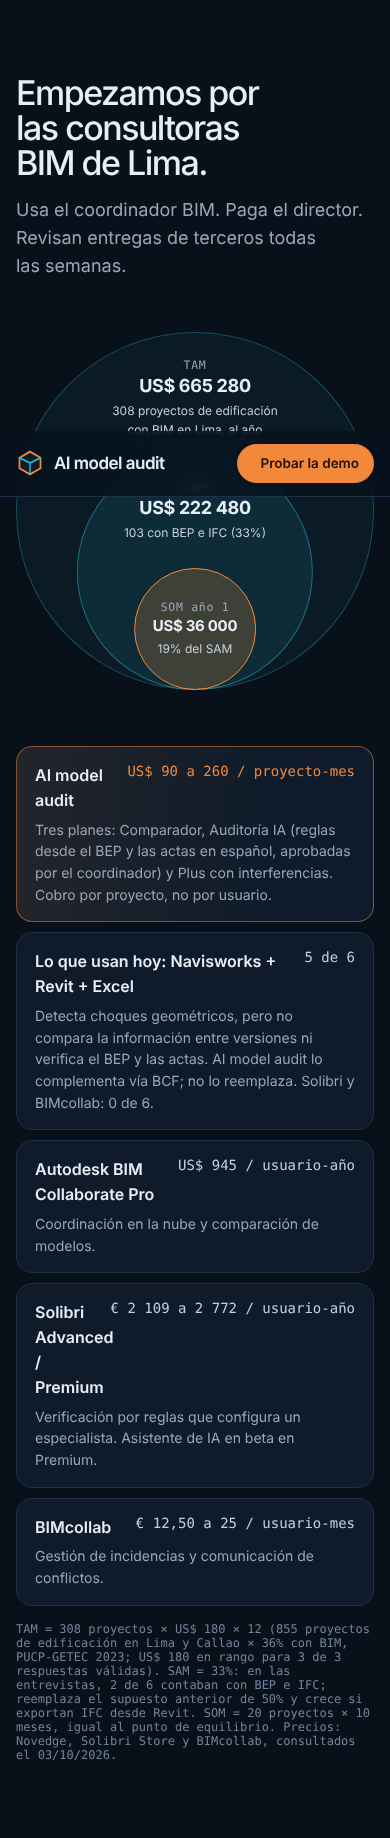
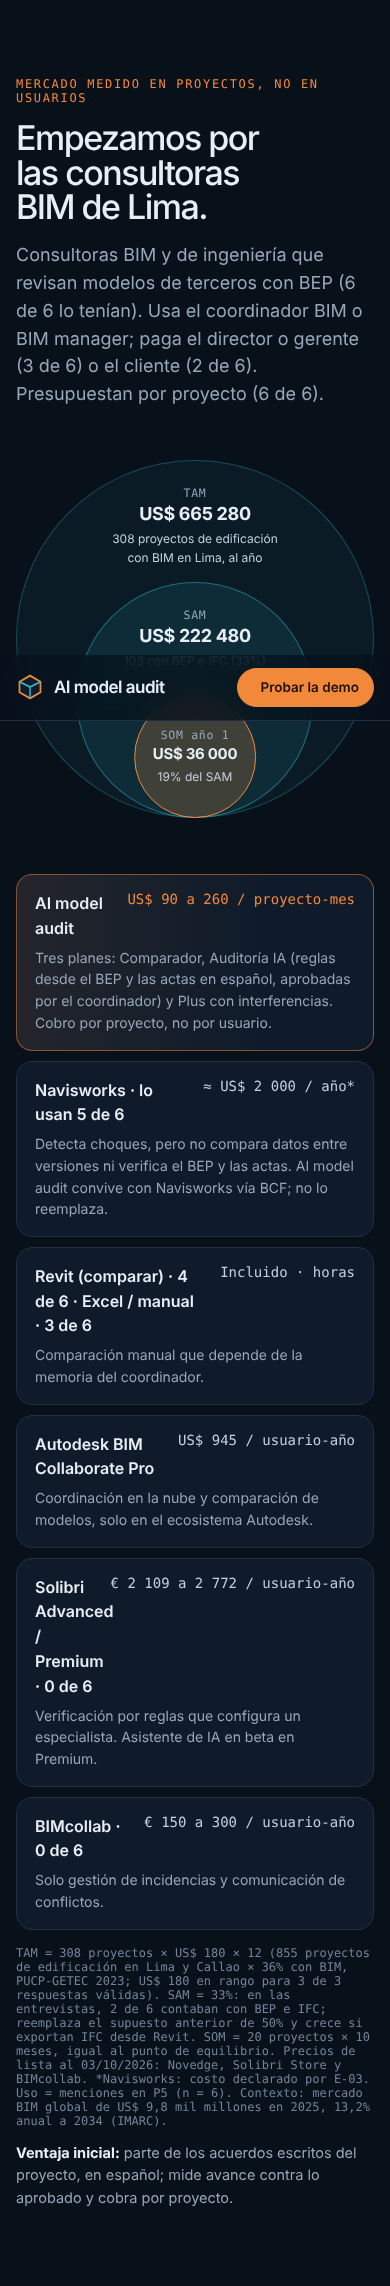
Alinea la página con el deck del Hito 2
- Hero con las tres pruebas (6/6, 36/36, 3 pilotos)
- IA: «La IA propone. Usted aprueba. El motor decide.», modelo y costo, fallos
- Mercado: segmento, usuario y pagador; competencia con uso en P5
- Planes: precio validado (P8), economía unitaria y canal
- Plan de desarrollo por fases con criterio de salida y tabla de hipótesis
- Piloto: 2 pilotos pagados de 1 proyecto, condiciones del deck
- Pie: roles del equipo y uso de IA

Claude-Session: https://claude.ai/code/session_01Kv3kMGk8fFWNeJ8VW4XCf7

Changed region(s): [[0.0308, 0.031, 0.9538, 0.9614], [0.0308, 0.2481, 0.1231, 0.3101]]

diff --git a/docs/interferencias/index.html b/docs/interferencias/index.html
@@ -328,6 +328,22 @@ input[type=range]::-moz-range-thumb{width:16px;height:16px;border-radius:50%;bac
 @media (max-width:560px){.ev-stats{grid-template-columns:1fr}.ev-stats>div{border-left:0!important;border-top:1px solid var(--line)!important}.ev-stats>div:first-child{border-top:0!important}.ev-q p{font-size:19px}}
 
 .hyp .chip{white-space:normal}
+/* ---------- deck Hito 2 ---------- */
+.hero-proof{display:flex;flex-wrap:wrap;gap:10px 26px;margin-top:26px}
+.hero-proof div{display:flex;flex-direction:column;gap:2px;max-width:17ch}
+.hero-proof b{font-size:26px;font-weight:600;letter-spacing:-.03em;line-height:1}
+.hero-proof span{font-size:13px;color:var(--fg2);line-height:1.35}
+.econ{display:grid;grid-template-columns:repeat(3,minmax(0,1fr));gap:20px;margin-top:20px}
+.vw{display:grid;grid-template-columns:repeat(2,minmax(0,1fr));gap:8px}
+.vw div{border-radius:12px;background:var(--bg2);border:1px solid var(--line);padding:10px 12px}
+.vw small{display:block;font-size:12px;color:var(--muted);line-height:1.3}
+.vw b{display:block;font:600 18px var(--mono);margin-top:4px}
+.vw .ok{border-color:rgba(56,196,142,.45)}
+.hyp-tbl td.st{white-space:nowrap}
+@media (max-width:980px){.econ{grid-template-columns:1fr}}
+.tblwrap{overflow-x:auto;max-width:100%}
+@media (max-width:560px){.vw{grid-template-columns:1fr 1fr}.hyp-tbl .hm{display:none}.hyp-tbl td.id,.hyp-tbl .chip,.hyp-tbl td.st{white-space:normal}.hyp-tbl td,.hyp-tbl th{font-size:13px}}
+
 /* ---------- CASO REAL (Prueba A) ---------- */
 .cr-tbl{width:100%;border-collapse:collapse;font-size:14px}
 .cr-tbl th{font:500 11px var(--mono);letter-spacing:.08em;text-transform:uppercase;color:var(--dim);text-align:left;padding:0 10px 8px 0;border-bottom:1px solid var(--line)}
@@ -759,6 +775,11 @@ tr:last-child td{border-bottom:0}
         <a class="btn pri" href="#app" data-demo><i class="ph ph-play"></i>Probar la demo</a>
         <a class="btn ghost" href="#piloto">Solicitar piloto</a>
       </div>
+      <div class="hero-proof rv" style="--i:4">
+        <div><b>6/6</b><span>empresas con retrabajo en los últimos 3 meses</span></div>
+        <div><b>36/36</b><span>tareas logradas sin ayuda en la demo</span></div>
+        <div><b>3</b><span>pilotos aceptados y 3 casos reales ofrecidos</span></div>
+      </div>
     </div>
   </div>
   <div class="container hero-bar">
@@ -935,7 +956,7 @@ R-07. Los muros que delimitan escaleras de evacuación deberán indicar su <mark
   <div class="container">
     <div class="head rv">
       <div class="eyebrow">Integración de IA</div>
-      <h2 class="h2">La IA lee los acuerdos. <span class="serif">El motor decide el cumplimiento.</span></h2>
+      <h2 class="h2">La IA propone. Usted aprueba. <span class="serif">El motor decide.</span></h2>
       <p class="lead">Comparar modelos ya existe. Lo nuevo es convertir el BEP y las actas en español en reglas verificables, con un humano aprobando cada una.</p>
     </div>
     <div class="ia-grid">
@@ -950,9 +971,11 @@ R-07. Los muros que delimitan escaleras de evacuación deberán indicar su <mark
       </div>
       <div class="ia-list rv" style="--i:1">
         <div class="ia-item"><i class="ph ph-brain"></i><div><b>Capacidad</b><p>Comprensión de lenguaje natural: extrae requisitos verificables de documentos en español y los mapea al vocabulario del modelo.</p></div></div>
-        <div class="ia-item"><i class="ph ph-tray-arrow-down"></i><div><b>Entradas</b><p>Texto del BEP y actas, más la lista de clases y propiedades que existen en los IFC cargados. Nunca la geometría completa.</p></div></div>
+        <div class="ia-item"><i class="ph ph-tray-arrow-down"></i><div><b>Entradas</b><p>Texto de los acuerdos (hasta 60 000 caracteres) y los nombres de clases y propiedades del IFC. Nunca la geometría: el modelo no sale del navegador.</p></div></div>
+        <div class="ia-item"><i class="ph ph-cpu"></i><div><b>Modelo y costo</b><p>Gemini 3.5 Flash-Lite, a unos US$ 0,01 por propuesta, con salida JSON de esquema cerrado. Corre en un servicio propio con clave secreta y límite de solicitudes; el modelo se cambia por configuración.</p></div></div>
         <div class="ia-item"><i class="ph ph-brackets-curly"></i><div><b>Resultado</b><p>Reglas en JSON con cita literal, clase, propiedades, valores permitidos y ambigüedades detectadas.</p></div></div>
-        <div class="ia-item"><i class="ph ph-user-check"></i><div><b>Revisión humana</b><p>Ninguna regla se verifica sin aprobación. Se mide cuántas salen útiles sin tocar (meta H6: 80% o más).</p></div></div>
+        <div class="ia-item"><i class="ph ph-user-check"></i><div><b>Revisión humana</b><p>Ninguna regla se verifica sin aprobación. La clase sale de una lista cerrada y la propiedad se valida en el IFC; lo ambiguo se devuelve o queda «No evaluable». En la prueba, 6 de 6 resolvieron la regla de la IA (5 la aprobaron, 1 la corrigió). Meta H6: 80% útiles.</p></div></div>
+        <div class="ia-item"><i class="ph ph-lifebuoy"></i><div><b>Si la IA falla</b><p>Sin respuesta, límite o JSON inválido: se avisa en pantalla y propone un asistente local por palabras clave. Nada se verifica sin aprobación.</p></div></div>
         <div class="ia-item limit"><i class="ph ph-warning"></i><div><b>Limitaciones</b><p>En un benchmark de 2026, el mejor modelo llegó a 65,6% F1 al generar reglas IDS. Por eso la IA propone y el humano decide. <span class="src">Ishigaki-IDS-Bench, arXiv:2605.22079</span></p></div></div>
       </div>
     </div>
@@ -1070,7 +1093,7 @@ R-07. Los muros que delimitan escaleras de evacuación deberán indicar su <mark
 
 <section class="block" id="mercado">
   <div class="container">
-    <div class="head rv"><h2 class="h2">Empezamos por las consultoras BIM de Lima.</h2><p class="lead">Usa el coordinador BIM. Paga el director. Revisan entregas de terceros todas las semanas.</p></div>
+    <div class="head rv"><div class="eyebrow">Mercado medido en proyectos, no en usuarios</div><h2 class="h2">Empezamos por las consultoras BIM de Lima.</h2><p class="lead">Consultoras BIM y de ingeniería que revisan modelos de terceros con BEP (6 de 6 lo tenían). Usa el coordinador BIM o BIM manager; paga el director o gerente (3 de 6) o el cliente (2 de 6). Presupuestan por proyecto (6 de 6).</p></div>
     <div class="mkt">
       <div class="rings rv" aria-label="TAM, SAM y SOM">
         <div class="ring r1"><span>TAM</span><b>US$ 665 280</b><small>308 proyectos de edificación con BIM en Lima, al año</small></div>
@@ -1079,11 +1102,13 @@ R-07. Los muros que delimitan escaleras de evacuación deberán indicar su <mark
       </div>
       <div class="alts rv" style="--i:1">
         <div class="alt us"><b>AI model audit</b><span class="price">US$ 90 a 260 / proyecto-mes</span><p>Tres planes: Comparador, Auditoría IA (reglas desde el BEP y las actas en español, aprobadas por el coordinador) y Plus con interferencias. Cobro por proyecto, no por usuario.</p></div>
-        <div class="alt"><b>Lo que usan hoy: Navisworks + Revit + Excel</b><span class="price">5 de 6</span><p>Detecta choques geométricos, pero no compara la información entre versiones ni verifica el BEP y las actas. AI model audit lo complementa vía BCF; no lo reemplaza. Solibri y BIMcollab: 0 de 6.</p></div>
-        <div class="alt"><b>Autodesk BIM Collaborate Pro</b><span class="price">US$ 945 / usuario-año</span><p>Coordinación en la nube y comparación de modelos.</p></div>
-        <div class="alt"><b>Solibri Advanced / Premium</b><span class="price">€ 2 109 a 2 772 / usuario-año</span><p>Verificación por reglas que configura un especialista. Asistente de IA en beta en Premium.</p></div>
-        <div class="alt"><b>BIMcollab</b><span class="price">€ 12,50 a 25 / usuario-mes</span><p>Gestión de incidencias y comunicación de conflictos.</p></div>
-        <p class="src" style="margin-top:6px">TAM = 308 proyectos × US$ 180 × 12 (855 proyectos de edificación en Lima y Callao × 36% con BIM, PUCP-GETEC 2023; US$ 180 en rango para 3 de 3 respuestas válidas). SAM = 33%: en las entrevistas, 2 de 6 contaban con BEP e IFC; reemplaza el supuesto anterior de 50% y crece si exportan IFC desde Revit. SOM = 20 proyectos × 10 meses, igual al punto de equilibrio. Precios: Novedge, Solibri Store y BIMcollab, consultados el 03/10/2026.</p>
+        <div class="alt"><b>Navisworks · lo usan 5 de 6</b><span class="price">≈ US$ 2 000 / año*</span><p>Detecta choques, pero no compara datos entre versiones ni verifica el BEP y las actas. AI model audit convive con Navisworks vía BCF; no lo reemplaza.</p></div>
+        <div class="alt"><b>Revit (comparar) · 4 de 6 · Excel / manual · 3 de 6</b><span class="price">Incluido · horas</span><p>Comparación manual que depende de la memoria del coordinador.</p></div>
+        <div class="alt"><b>Autodesk BIM Collaborate Pro</b><span class="price">US$ 945 / usuario-año</span><p>Coordinación en la nube y comparación de modelos, solo en el ecosistema Autodesk.</p></div>
+        <div class="alt"><b>Solibri Advanced / Premium · 0 de 6</b><span class="price">€ 2 109 a 2 772 / usuario-año</span><p>Verificación por reglas que configura un especialista. Asistente de IA en beta en Premium.</p></div>
+        <div class="alt"><b>BIMcollab · 0 de 6</b><span class="price">€ 150 a 300 / usuario-año</span><p>Solo gestión de incidencias y comunicación de conflictos.</p></div>
+        <p class="src" style="margin-top:6px">TAM = 308 proyectos × US$ 180 × 12 (855 proyectos de edificación en Lima y Callao × 36% con BIM, PUCP-GETEC 2023; US$ 180 en rango para 3 de 3 respuestas válidas). SAM = 33%: en las entrevistas, 2 de 6 contaban con BEP e IFC; reemplaza el supuesto anterior de 50% y crece si exportan IFC desde Revit. SOM = 20 proyectos × 10 meses, igual al punto de equilibrio. Precios de lista al 03/10/2026: Novedge, Solibri Store y BIMcollab. *Navisworks: costo declarado por E-03. Uso = menciones en P5 (n = 6). Contexto: mercado BIM global de US$ 9,8 mil millones en 2025, 13,2% anual a 2034 (IMARC).</p>
+        <p class="muted" style="font-size:14.5px;margin-top:4px"><b style="color:var(--fg)">Ventaja inicial:</b> parte de los acuerdos escritos del proyecto, en español; mide avance contra lo aprobado y cobra por proyecto.</p>
       </div>
     </div>
   </div>
@@ -1131,8 +1156,25 @@ R-07. Los muros que delimitan escaleras de evacuación deberán indicar su <mark
         <div style="display:flex;gap:8px;flex-wrap:wrap;margin-top:auto"><a class="btn ia" href="#app" data-cl="ejemplo"><i class="ph ph-intersect"></i>Ver interferencias</a><a class="btn ia" href="#app" data-ids="ejemplo"><i class="ph ph-list-checks"></i>Ver validación IDS</a></div>
       </div>
     </div>
-    <p class="src plansrc">Precios en validación (H4). En las entrevistas, las 3 respuestas válidas ubicaron US$ 180 entre «barato» (mediana US$ 120) y «caro» (mediana US$ 250).</p>
-    <div class="price-grid one">
+    <p class="src plansrc">US$ 180 confirmado en rango con 3 respuestas válidas (H4, n = 3); se confirma con pilotos pagados.</p>
+    <div class="econ">
+      <div class="ev-card rv">
+        <h3>Precio validado (P8)</h3>
+        <div class="vw"><div><small>Tan barato que dudaría</small><b>US$ 30</b></div><div class="ok"><small>Barato, buena compra</small><b>US$ 120</b></div><div class="ok"><small>Caro, pero lo pensaría</small><b>US$ 250</b></div><div><small>Demasiado caro</small><b>US$ 400</b></div></div>
+        <p class="muted" style="font-size:14px">Medianas de las 3 respuestas válidas: US$ 180 queda entre «barato» y «caro» en 3 de 3.</p>
+      </div>
+      <div class="ev-card rv" style="--i:1">
+        <h3>Economía unitaria (US$ 180)</h3>
+        <div class="ev-kv"><span>Infraestructura</span><b>US$ 15</b><span>Uso de IA</span><b>US$ 5</b><span>Soporte (2 h × US$ 20)</span><b>US$ 40</b><span style="color:var(--fg)">Contribución por proyecto-mes</span><b style="color:var(--green)">US$ 120</b><span>Equilibrio: US$ 2 400 ÷ 120</span><b>20 proyectos</b></div>
+        <p class="src">Costos fijos y por proyecto: supuestos del equipo (H5), a medir en los pilotos.</p>
+      </div>
+      <div class="ev-card rv" style="--i:2">
+        <h3>Canal y adquisición</h3>
+        <div class="ev-kv"><span>Entrevistas con demo</span><b>6</b><span>Entregan un caso real</span><b>3</b><span>Aceptan el piloto</span><b>3</b><span>Referidos</span><b>3</b><span style="color:var(--fg)">Meta</span><b style="color:var(--acc)">2 pilotos pagados</b></div>
+        <p class="src">Decisión de compra: de 3 días a 5 semanas. Aliado: AECODE.</p>
+      </div>
+    </div>
+    <div class="price-grid one" style="margin-top:20px">
       <div class="calc rv" style="--i:1" aria-labelledby="calcT">
         <div class="calchd"><div><h3 id="calcT">¿Se paga solo en su proyecto?</h3><p class="muted" style="font-size:14.5px;margin-top:6px">Elija un plan y mueva los supuestos. Las revisiones y las horas parten de la mediana de las 6 entrevistas. La reducción (meta H2) y el valor de US$ 25 por hora del coordinador son supuestos: no se preguntaron y se medirán en los pilotos.</p></div>
           <div class="pseg" role="radiogroup" aria-label="Plan"><label><input type="radio" name="cPlan" value="90">Comparador</label><label><input type="radio" name="cPlan" value="180" checked>Auditoría IA</label><label><input type="radio" name="cPlan" value="260">Plus</label></div></div>
@@ -1148,7 +1190,7 @@ R-07. Los muros que delimitan escaleras de evacuación deberán indicar su <mark
           <div><div class="l">Costo del plan</div><div class="v" id="rC">US$ 180</div></div>
         </div>
         <div class="verdict" id="verdict"></div>
-        <p class="src">La reducción de 30% es la meta de la hipótesis H2, no un resultado. Se mide en una revisión real con cronómetro por fase.</p>
+        <p class="src">Valor para el cliente: 22,5 h × 30% × US$ 25/h ≈ US$ 169 por revisión. La reducción de 30% es la meta de H2, no un resultado; se mide en una revisión real con cronómetro por fase.</p>
       </div>
     </div>
   </div>
@@ -1156,24 +1198,28 @@ R-07. Los muros que delimitan escaleras de evacuación deberán indicar su <mark
 
 <section class="block" id="validacion" style="padding-top:0">
   <div class="container">
-    <div class="head rv"><h2 class="h2">Así validamos antes de construir más.</h2><p class="lead">Cada experimento tiene una métrica y un criterio de decisión definidos antes de medir. Lo que no se ha medido figura como pendiente, con fecha.</p></div>
+    <div class="head rv"><h2 class="h2">Plan de desarrollo: <span class="serif">cada fase con criterio de salida.</span></h2><p class="lead">Cada experimento tiene una métrica y un criterio de decisión definidos antes de medir. Lo que no se ha medido figura como pendiente, con fecha.</p></div>
     <div class="tl rv">
-      <div class="st done"><div class="dot"><i class="ph ph-check"></i></div><div class="when">Set 2026</div><h3>Oportunidad</h3><p>Problema, segmento priorizado frente a otros 3 y mercado con fuentes.</p><div class="crit">Hito 1 entregado</div></div>
-      <div class="st done"><div class="dot"><i class="ph ph-check"></i></div><div class="when">02 a 11/10/2026</div><h3>Entrevistas, demo y caso real</h3><p>6 entrevistas válidas, prueba de la demo con los 6 (36 de 36 tareas) y auditoría de un caso real con el prototipo.</p><div class="crit">H1: confirmada (6 de 6)<br>H4: confirmada (n = 3)<br>Demo comprensible: confirmada<br>SAM 50%: rechazado → 33%</div></div>
-      <div class="st now"><div class="dot"><i class="ph ph-timer"></i></div><div class="when">Al 31/10/2026</div><h3>Revisión medida</h3><p>Casos de E-04, E-05 y E-06 más el caso real, revisados a mano y con el prototipo, con cronómetro por fase. Línea base: 22,5 h por auditoría.</p><div class="crit">H2: 30% menos tiempo<br>H3: 90% de precisión<br>H6: 80% de reglas IA útiles</div></div>
-      <div class="st"><div class="dot"><i class="ph ph-handshake"></i></div><div class="when">Nov a dic 2026</div><h3>Pilotos pagados</h3><p>3 entrevistados aceptaron el piloto y 2 lo condicionan a probarlo en un proyecto real.</p><div class="crit">2 pilotos a US$ 180: seguir<br>0: bajar precio o cambiar segmento</div></div>
-      <div class="st"><div class="dot"><i class="ph ph-rocket-launch"></i></div><div class="when">Ene 2027</div><h3>MVP</h3><p>Geometría completa, alcance aprobado y costo de operación medido.</p><div class="crit">90% en 3 casos y costo de US$ 60 o menos por proyecto-mes</div></div>
+      <div class="st done"><div class="dot"><i class="ph ph-check"></i></div><div class="when">Set 2026 · Hito 1</div><h3>Oportunidad</h3><p>Problema, segmento priorizado frente a otros 3 y mercado con fuentes.</p><div class="crit">Hito 1 entregado</div></div>
+      <div class="st done"><div class="dot"><i class="ph ph-check"></i></div><div class="when">Set a oct 2026 · Fase 0</div><h3>Demo y evidencia</h3><p>Demo navegable publicada, IFC reales de 66 MB, interferencias, BCF e IDS. 6 entrevistas y caso real auditado.</p><div class="crit">Salida: 6 pruebas de usuario (logrado)</div></div>
+      <div class="st now"><div class="dot"><i class="ph ph-timer"></i></div><div class="when">13 a 31/10/2026 · Fase 1</div><h3>Validar valor</h3><p>IA en vivo publicada, Prueba C con 3 casos (manual frente a asistida) y ajuste de la ficha por T5 (hecho).</p><div class="crit">Salida: H2 ≥30%, H3 ≥90%, H6 ≥80%</div></div>
+      <div class="st"><div class="dot"><i class="ph ph-handshake"></i></div><div class="when">Nov a dic 2026 · Fase 2</div><h3>Pilotos</h3><p>2 pilotos pagados, proyectos multiusuario y guía de exportación IFC desde Revit.</p><div class="crit">Salida: 2 pilotos; costo ≤ US$ 60 por proyecto-mes</div></div>
+      <div class="st"><div class="dot"><i class="ph ph-rocket-launch"></i></div><div class="when">Ene a mar 2027 · Fase 3</div><h3>MVP</h3><p>Cuentas y datos cifrados, exportación a Power BI y complemento para Revit.</p><div class="crit">Salida: ≥90% en 3 casos; 20 proyectos</div></div>
     </div>
-    <div class="hyp rv">
-      <span class="chip" style="color:var(--green)">H1 dolor recurrente · confirmada, 6 de 6</span>
-      <span class="chip" style="color:var(--amber)">H2 ahorro ≥30% · pendiente 31/10</span>
-      <span class="chip" style="color:var(--amber)">H3 calidad ≥90% · pendiente 31/10</span>
-      <span class="chip" style="color:var(--green)">H4 US$ 180 por proyecto-mes · confirmada, n = 3</span>
-      <span class="chip" style="color:var(--grey)">H5 costo ≤ US$ 60 · pendiente dic</span>
-      <span class="chip" style="color:var(--amber)">H6 reglas IA útiles · parcial, 6 de 6 en caso sintético</span>
-      <span class="chip" style="color:var(--red)">SAM 50% · rechazado → 33%</span>
-      <span class="chip" style="color:var(--red)">Contar cambios mide avance · rechazado</span>
-      <span class="chip" style="color:var(--green)">Procesa modelos reales en segundos · confirmado</span>
+    <div class="ev-card rv" style="margin-top:40px">
+      <h3>Lo que falta probar</h3>
+      <div class="tblwrap"><table class="cr-tbl hyp-tbl">
+        <thead><tr><th>Hipótesis</th><th>Estado</th><th class="hm">Experimento</th><th>Criterio de decisión</th><th style="text-align:right">Fecha</th></tr></thead>
+        <tbody>
+          <tr><td class="id">H1 Dolor</td><td class="st"><span class="chip" style="color:var(--green)">Confirmada</span></td><td class="hm">6 entrevistas</td><td>6/6 con episodio; 3 casos</td><td class="v">Hecho</td></tr>
+          <tr><td class="id">H4 Pago US$ 180</td><td class="st"><span class="chip" style="color:var(--green)">Confirmada (n=3)</span></td><td class="hm">Piloto pagado</td><td>≥2 firmados; 0 → bajar precio</td><td class="v">Nov–dic</td></tr>
+          <tr><td class="id">H2 Ahorro</td><td class="st"><span class="chip" style="color:var(--amber)">Pendiente</span></td><td class="hm">Prueba C, 3 casos</td><td>≥30% menos tiempo</td><td class="v">31/10</td></tr>
+          <tr><td class="id">H3 Calidad</td><td class="st"><span class="chip" style="color:var(--amber)">Pendiente</span></td><td class="hm">50 elementos, 2 revisores</td><td>Precisión y exhaustividad ≥90%</td><td class="v">31/10</td></tr>
+          <tr><td class="id">H6 IA</td><td class="st"><span class="chip" style="color:var(--amber)">Parcial</span></td><td class="hm">Reglas IA en el caso real</td><td>≥80% de reglas útiles</td><td class="v">31/10</td></tr>
+          <tr><td class="id">H5 Costo</td><td class="st"><span class="chip" style="color:var(--grey)">Pendiente</span></td><td class="hm">Registro en pilotos</td><td>≤ US$ 60 por proyecto-mes</td><td class="v">Dic</td></tr>
+        </tbody>
+      </table></div>
+      <p class="src">Supuestos rechazados con la evidencia: SAM = 50% del TAM (ahora 33%) y «contar cambios basta para medir avance».</p>
     </div>
   </div>
 </section>
@@ -1182,11 +1228,12 @@ R-07. Los muros que delimitan escaleras de evacuación deberán indicar su <mark
   <div class="container">
     <div class="wrap rv">
       <div>
-        <h2 class="h2">Sea una de las dos <span class="serif">consultoras piloto.</span></h2>
-        <p class="lead" style="margin-top:14px">Revisamos con usted una entrega real y medimos el tiempo frente a su método actual.</p>
+        <h2 class="h2">Buscamos 2 pilotos pagados <span class="serif">de 1 proyecto.</span></h2>
+        <p class="lead" style="margin-top:14px">US$ 180 al mes, de noviembre a diciembre de 2026. Revisamos con usted una entrega real y medimos el tiempo frente a su método actual. Si no ahorra 30% o más, no hay segundo mes.</p>
         <ul class="perks">
           <li><i class="ph ph-timer"></i>Medición de tiempo por fase, manual frente a asistida</li>
-          <li><i class="ph ph-shield-check"></i>Archivos con autorización escrita y código anónimo</li>
+          <li><i class="ph ph-shield-check"></i>2 IFC + BEP autorizados por escrito, con código anónimo; los IFC no salen de su navegador</li>
+          <li><i class="ph ph-user-focus"></i>Un coordinador de su equipo que cronometre la revisión</li>
           <li><i class="ph ph-tag"></i>Un proyecto piloto con el plan Auditoría IA a US$ 180 por mes, o Plus a US$ 260 con interferencias</li>
         </ul>
       </div>
@@ -1215,8 +1262,8 @@ R-07. Los muros que delimitan escaleras de evacuación deberán indicar su <mark
       <a class="logo" href="#top"><svg viewBox="0 0 32 32" aria-hidden="true"><path d="M16 3 28 10v12L16 29 4 22V10z" fill="#0F1B2A" stroke="#F2883A" stroke-width="2"/><path d="M16 16 28 10M16 16 4 10M16 16v13" stroke="#2EC4D6" stroke-width="1.6"/></svg>AI model audit</a>
       <p style="margin-top:12px;max-width:42ch">Diplomado Internacional IA en Ingeniería y Construcción, AECODE ED.03. Eje Startup, Hito 2.</p>
       <div class="team">
-        <div class="person"><span class="avatar">MB</span><span>Manuel Daniel Bencomo Rojas</span></div>
-        <div class="person"><span class="avatar b">RM</span><span>Rainer Luice Murrieta Huaranca</span></div>
+        <div class="person"><span class="avatar">MB</span><span>Manuel Daniel Bencomo Rojas · coordinador BIM</span></div>
+        <div class="person"><span class="avatar b">RM</span><span>Rainer Luice Murrieta Huaranca · especialista BIM</span></div>
       </div>
     </div>
     <div>
@@ -1225,7 +1272,7 @@ R-07. Los muros que delimitan escaleras de evacuación deberán indicar su <mark
     </div>
     <div>
       <h4>Transparencia</h4>
-      <p>Los datos del caso de ejemplo son sintéticos. Las cifras de mercado citan su fuente; precios, ahorros y escenarios son supuestos en validación. Claude (Anthropic) apoyó el código y la redacción, con revisión del equipo.</p>
+      <p>Los datos del caso de ejemplo son sintéticos. Las cifras de mercado citan su fuente; precios, ahorros y escenarios son supuestos en validación. Claude (Anthropic) apoyó análisis, redacción y código; Gemini propone reglas dentro del producto. Todo con revisión humana del equipo.</p>
     </div>
   </div>
 </footer>
